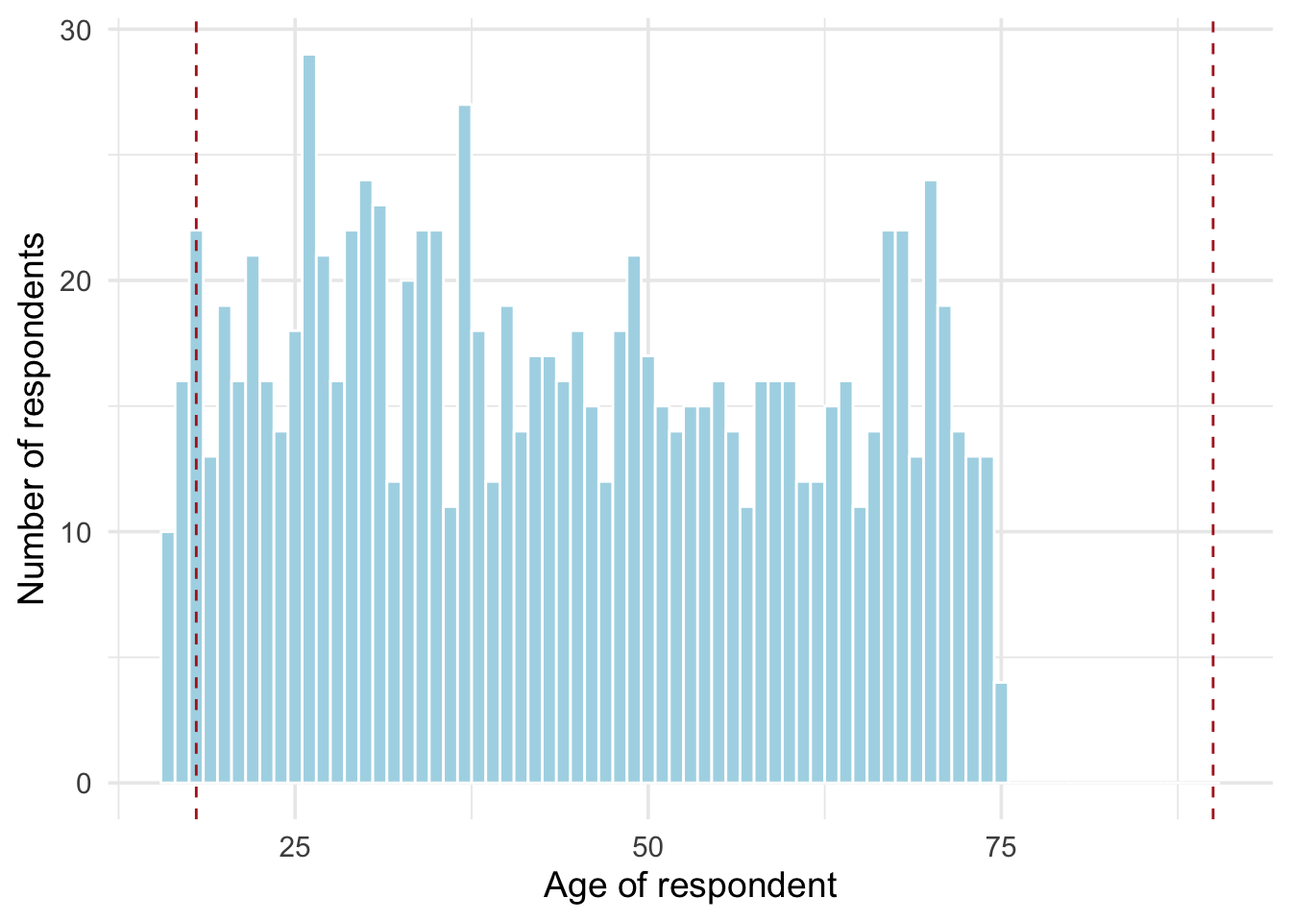
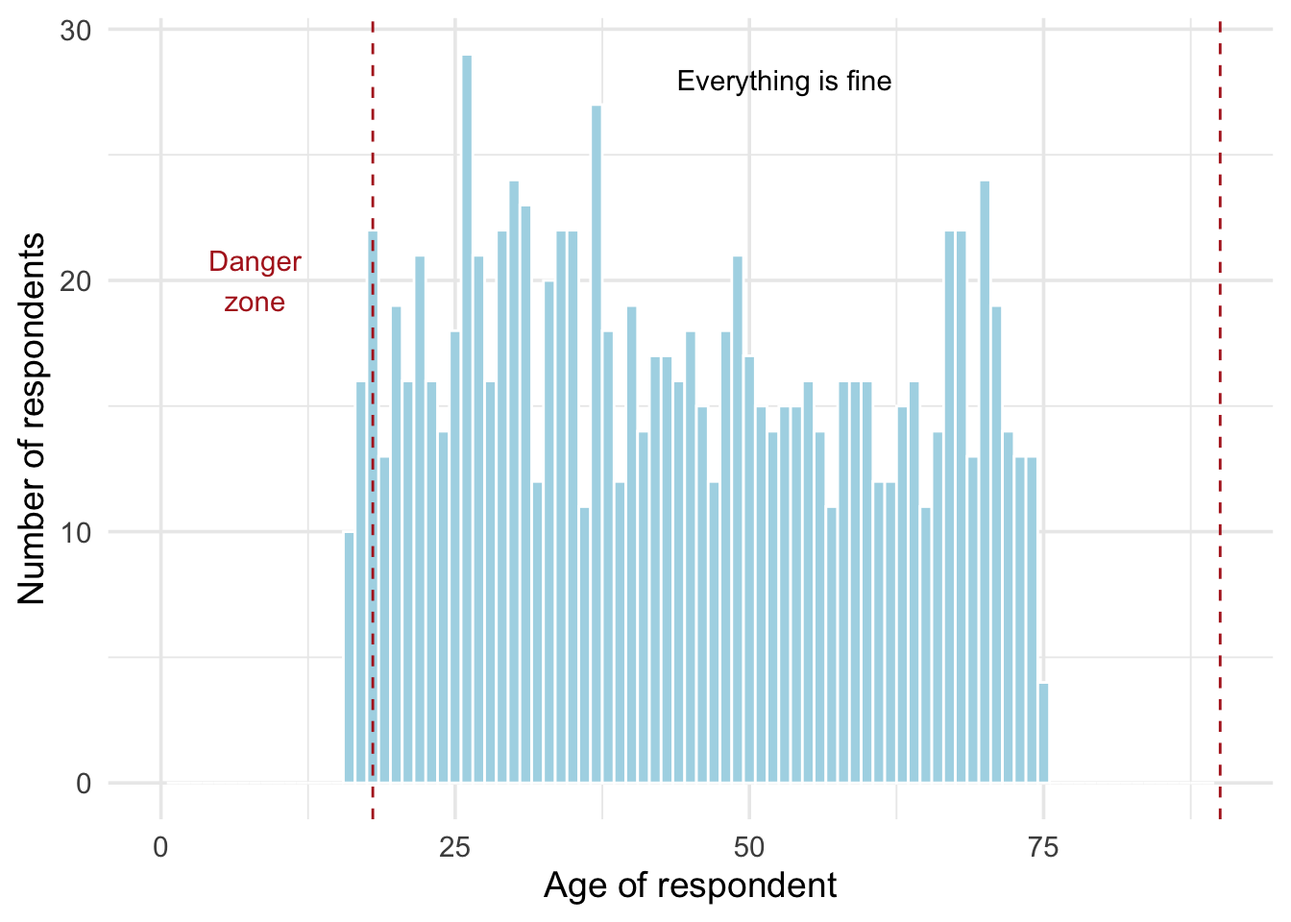
Issues with commiting. This better work.

diff --git a/_site/blog/writing-tests/index.html b/_site/blog/writing-tests/index.html
@@ -7,10 +7,10 @@
 <meta name="viewport" content="width=device-width, initial-scale=1.0, user-scalable=yes">
 
 <meta name="author" content="Paw Hansen">
-<meta name="dcterms.date" content="2021-05-22">
-<meta name="description" content="Writing tests to varify your data is what you think it is">
+<meta name="dcterms.date" content="2023-08-23">
+<meta name="description" content="No one likes to be surprised when it comes to data quality. Writing tests will help you varify your data is what you think it is">
 
-<title>Paw Hansen - We should probably test that: writing tests to varify your data is what you think it is</title>
+<title>Paw Hansen - You should probably test that: writing tests to ensure data quality</title>
 <style>
 code{white-space: pre-wrap;}
 span.smallcaps{font-variant: small-caps;}
@@ -139,10 +139,10 @@ pre > code.sourceCode > span > a:first-child::before { text-decoration: underlin
 <header id="title-block-header" class="quarto-title-block default page-columns page-full">
   <div class="quarto-title-banner page-columns page-full">
     <div class="quarto-title column-body">
-      <h1 class="title">We should probably test that: writing tests to varify your data is what you think it is</h1>
+      <h1 class="title">You should probably test that: writing tests to ensure data quality</h1>
                   <div>
         <div class="description">
-          Writing tests to varify your data is what you think it is
+          No one likes to be surprised when it comes to data quality. Writing tests will help you varify your data is what you think it is
         </div>
       </div>
                           <div class="quarto-categories">
@@ -164,7 +164,7 @@ pre > code.sourceCode > span > a:first-child::before { text-decoration: underlin
       <div>
       <div class="quarto-title-meta-heading">Published</div>
       <div class="quarto-title-meta-contents">
-        <p class="date">May 22, 2021</p>
+        <p class="date">August 23, 2023</p>
       </div>
     </div>
     
@@ -252,21 +252,39 @@ pre > code.sourceCode > span > a:first-child::before { text-decoration: underlin
 <span id="cb3-4"><a href="#cb3-4" aria-hidden="true" tabindex="-1"></a>                 <span class="at">color =</span> <span class="st">"white"</span>, </span>
 <span id="cb3-5"><a href="#cb3-5" aria-hidden="true" tabindex="-1"></a>                 <span class="at">fill =</span> <span class="st">"lightblue"</span>) <span class="sc">+</span></span>
 <span id="cb3-6"><a href="#cb3-6" aria-hidden="true" tabindex="-1"></a>  <span class="fu">geom_vline</span>(<span class="at">xintercept =</span> <span class="dv">18</span>, <span class="at">color =</span> <span class="st">"firebrick"</span>, <span class="at">lty =</span> <span class="st">"dashed"</span>) <span class="sc">+</span> </span>
-<span id="cb3-7"><a href="#cb3-7" aria-hidden="true" tabindex="-1"></a>  <span class="fu">geom_vline</span>(<span class="at">xintercept =</span> <span class="dv">90</span>, <span class="at">color =</span> <span class="st">"firebrick"</span>, <span class="at">lty =</span> <span class="st">"dashed"</span>) <span class="sc">+</span> </span>
-<span id="cb3-8"><a href="#cb3-8" aria-hidden="true" tabindex="-1"></a>   <span class="fu">labs</span>(</span>
-<span id="cb3-9"><a href="#cb3-9" aria-hidden="true" tabindex="-1"></a>    <span class="at">x =</span> <span class="st">"Age of respondent"</span>,</span>
-<span id="cb3-10"><a href="#cb3-10" aria-hidden="true" tabindex="-1"></a>    <span class="at">y =</span> <span class="st">"Number of respondents"</span>)</span></code><button title="Copy to Clipboard" class="code-copy-button"><i class="bi"></i></button></pre></div>
+<span id="cb3-7"><a href="#cb3-7" aria-hidden="true" tabindex="-1"></a>  <span class="fu">annotate</span>(<span class="at">geom =</span> <span class="st">"text"</span>, </span>
+<span id="cb3-8"><a href="#cb3-8" aria-hidden="true" tabindex="-1"></a>           <span class="at">label =</span> <span class="fu">str_wrap</span>(<span class="st">"Danger zone"</span>, <span class="dv">6</span>), </span>
+<span id="cb3-9"><a href="#cb3-9" aria-hidden="true" tabindex="-1"></a>           <span class="at">x =</span> <span class="dv">8</span>, </span>
+<span id="cb3-10"><a href="#cb3-10" aria-hidden="true" tabindex="-1"></a>           <span class="at">y =</span> <span class="dv">20</span>, </span>
+<span id="cb3-11"><a href="#cb3-11" aria-hidden="true" tabindex="-1"></a>           <span class="at">color =</span> <span class="st">"firebrick"</span>) <span class="sc">+</span> </span>
+<span id="cb3-12"><a href="#cb3-12" aria-hidden="true" tabindex="-1"></a>  <span class="fu">annotate</span>(<span class="at">geom =</span> <span class="st">"text"</span>, </span>
+<span id="cb3-13"><a href="#cb3-13" aria-hidden="true" tabindex="-1"></a>           <span class="at">label =</span> <span class="st">"Everything is fine"</span>, </span>
+<span id="cb3-14"><a href="#cb3-14" aria-hidden="true" tabindex="-1"></a>           <span class="at">x =</span> <span class="dv">53</span>, </span>
+<span id="cb3-15"><a href="#cb3-15" aria-hidden="true" tabindex="-1"></a>           <span class="at">y =</span> <span class="dv">28</span>) <span class="sc">+</span> </span>
+<span id="cb3-16"><a href="#cb3-16" aria-hidden="true" tabindex="-1"></a>  <span class="fu">geom_vline</span>(<span class="at">xintercept =</span> <span class="dv">90</span>, <span class="at">color =</span> <span class="st">"firebrick"</span>, <span class="at">lty =</span> <span class="st">"dashed"</span>) <span class="sc">+</span> </span>
+<span id="cb3-17"><a href="#cb3-17" aria-hidden="true" tabindex="-1"></a>  <span class="fu">xlim</span>(<span class="dv">0</span>, <span class="dv">90</span>) <span class="sc">+</span> </span>
+<span id="cb3-18"><a href="#cb3-18" aria-hidden="true" tabindex="-1"></a>   <span class="fu">labs</span>(</span>
+<span id="cb3-19"><a href="#cb3-19" aria-hidden="true" tabindex="-1"></a>    <span class="at">x =</span> <span class="st">"Age of respondent"</span>,</span>
+<span id="cb3-20"><a href="#cb3-20" aria-hidden="true" tabindex="-1"></a>    <span class="at">y =</span> <span class="st">"Number of respondents"</span>)</span></code><button title="Copy to Clipboard" class="code-copy-button"><i class="bi"></i></button></pre></div>
 </details>
+<div class="cell-output cell-output-stderr">
+<pre><code>Warning: Removed 2 rows containing missing values (`geom_bar()`).</code></pre>
+</div>
 <div class="cell-output-display">
-<p><img src="index_files/figure-html/unnamed-chunk-2-1.png" class="img-fluid" width="672"></p>
+<div class="quarto-figure quarto-figure-center">
+<figure class="figure">
+<p><img src="index_files/figure-html/unnamed-chunk-2-1.png" class="img-fluid figure-img" width="672"></p>
+<figcaption class="figure-caption">A quick histogram is great for identifying if observations fall outside meaningful bondaries.</figcaption>
+</figure>
+</div>
 </div>
 </div>
 <p>The histogram reveals that we have people in our sample who a under 18 and perhaps should be excluded. Another way of doing the same test but using code could be:</p>
 <div class="cell">
 <details>
 <summary>Code</summary>
-<div class="sourceCode cell-code" id="cb4"><pre class="sourceCode r code-with-copy"><code class="sourceCode r"><span id="cb4-1"><a href="#cb4-1" aria-hidden="true" tabindex="-1"></a><span class="fu">str_c</span>(<span class="fu">mean</span>(sim_dat<span class="sc">$</span>age <span class="sc">&gt;=</span> <span class="dv">18</span> <span class="sc">&amp;</span> sim_dat<span class="sc">$</span>age<span class="sc">&lt;</span> <span class="dv">90</span>) <span class="sc">*</span> <span class="dv">100</span>, </span>
-<span id="cb4-2"><a href="#cb4-2" aria-hidden="true" tabindex="-1"></a>      <span class="st">" percent of observations passes the test"</span>)</span></code><button title="Copy to Clipboard" class="code-copy-button"><i class="bi"></i></button></pre></div>
+<div class="sourceCode cell-code" id="cb5"><pre class="sourceCode r code-with-copy"><code class="sourceCode r"><span id="cb5-1"><a href="#cb5-1" aria-hidden="true" tabindex="-1"></a><span class="fu">str_c</span>(<span class="fu">mean</span>(sim_dat<span class="sc">$</span>age <span class="sc">&gt;=</span> <span class="dv">18</span> <span class="sc">&amp;</span> sim_dat<span class="sc">$</span>age<span class="sc">&lt;</span> <span class="dv">90</span>) <span class="sc">*</span> <span class="dv">100</span>, </span>
+<span id="cb5-2"><a href="#cb5-2" aria-hidden="true" tabindex="-1"></a>      <span class="st">" percent of observations passes the test"</span>)</span></code><button title="Copy to Clipboard" class="code-copy-button"><i class="bi"></i></button></pre></div>
 </details>
 <div class="cell-output cell-output-stdout">
 <pre><code>[1] "97.4 percent of observations passes the test"</code></pre>
@@ -276,8 +294,8 @@ pre > code.sourceCode > span > a:first-child::before { text-decoration: underlin
 <div class="cell">
 <details>
 <summary>Code</summary>
-<div class="sourceCode cell-code" id="cb6"><pre class="sourceCode r code-with-copy"><code class="sourceCode r"><span id="cb6-1"><a href="#cb6-1" aria-hidden="true" tabindex="-1"></a>sim_dat <span class="sc">|&gt;</span> </span>
-<span id="cb6-2"><a href="#cb6-2" aria-hidden="true" tabindex="-1"></a>  <span class="fu">count</span>(sex)</span></code><button title="Copy to Clipboard" class="code-copy-button"><i class="bi"></i></button></pre></div>
+<div class="sourceCode cell-code" id="cb7"><pre class="sourceCode r code-with-copy"><code class="sourceCode r"><span id="cb7-1"><a href="#cb7-1" aria-hidden="true" tabindex="-1"></a>sim_dat <span class="sc">|&gt;</span> </span>
+<span id="cb7-2"><a href="#cb7-2" aria-hidden="true" tabindex="-1"></a>  <span class="fu">count</span>(sex)</span></code><button title="Copy to Clipboard" class="code-copy-button"><i class="bi"></i></button></pre></div>
 </details>
 <div class="cell-output cell-output-stdout">
 <pre><code># A tibble: 3 × 2
@@ -289,8 +307,8 @@ pre > code.sourceCode > span > a:first-child::before { text-decoration: underlin
 </div>
 <details>
 <summary>Code</summary>
-<div class="sourceCode cell-code" id="cb8"><pre class="sourceCode r code-with-copy"><code class="sourceCode r"><span id="cb8-1"><a href="#cb8-1" aria-hidden="true" tabindex="-1"></a>sim_dat <span class="sc">|&gt;</span> </span>
-<span id="cb8-2"><a href="#cb8-2" aria-hidden="true" tabindex="-1"></a>  <span class="fu">count</span>(preference)</span></code><button title="Copy to Clipboard" class="code-copy-button"><i class="bi"></i></button></pre></div>
+<div class="sourceCode cell-code" id="cb9"><pre class="sourceCode r code-with-copy"><code class="sourceCode r"><span id="cb9-1"><a href="#cb9-1" aria-hidden="true" tabindex="-1"></a>sim_dat <span class="sc">|&gt;</span> </span>
+<span id="cb9-2"><a href="#cb9-2" aria-hidden="true" tabindex="-1"></a>  <span class="fu">count</span>(preference)</span></code><button title="Copy to Clipboard" class="code-copy-button"><i class="bi"></i></button></pre></div>
 </details>
 <div class="cell-output cell-output-stdout">
 <pre><code># A tibble: 3 × 2
@@ -305,7 +323,7 @@ pre > code.sourceCode > span > a:first-child::before { text-decoration: underlin
 <div class="cell">
 <details>
 <summary>Code</summary>
-<div class="sourceCode cell-code" id="cb10"><pre class="sourceCode r code-with-copy"><code class="sourceCode r"><span id="cb10-1"><a href="#cb10-1" aria-hidden="true" tabindex="-1"></a><span class="fu">str_c</span>(<span class="fu">mean</span>(<span class="fu">is.na</span>(sim_dat<span class="sc">$</span>sex)) <span class="sc">*</span> <span class="dv">100</span>, <span class="st">" percent of respondents have missing values on the sex variable"</span>)</span></code><button title="Copy to Clipboard" class="code-copy-button"><i class="bi"></i></button></pre></div>
+<div class="sourceCode cell-code" id="cb11"><pre class="sourceCode r code-with-copy"><code class="sourceCode r"><span id="cb11-1"><a href="#cb11-1" aria-hidden="true" tabindex="-1"></a><span class="fu">str_c</span>(<span class="fu">mean</span>(<span class="fu">is.na</span>(sim_dat<span class="sc">$</span>sex)) <span class="sc">*</span> <span class="dv">100</span>, <span class="st">" percent of respondents have missing values on the sex variable"</span>)</span></code><button title="Copy to Clipboard" class="code-copy-button"><i class="bi"></i></button></pre></div>
 </details>
 <div class="cell-output cell-output-stdout">
 <pre><code>[1] "20.5 percent of respondents have missing values on the sex variable"</code></pre>
@@ -315,7 +333,7 @@ pre > code.sourceCode > span > a:first-child::before { text-decoration: underlin
 <div class="cell">
 <details>
 <summary>Code</summary>
-<div class="sourceCode cell-code" id="cb12"><pre class="sourceCode r code-with-copy"><code class="sourceCode r"><span id="cb12-1"><a href="#cb12-1" aria-hidden="true" tabindex="-1"></a><span class="fu">mean</span>(<span class="fu">is.na</span>(sim_dat<span class="sc">$</span>sex)) <span class="sc">==</span> <span class="dv">0</span></span></code><button title="Copy to Clipboard" class="code-copy-button"><i class="bi"></i></button></pre></div>
+<div class="sourceCode cell-code" id="cb13"><pre class="sourceCode r code-with-copy"><code class="sourceCode r"><span id="cb13-1"><a href="#cb13-1" aria-hidden="true" tabindex="-1"></a><span class="fu">mean</span>(<span class="fu">is.na</span>(sim_dat<span class="sc">$</span>sex)) <span class="sc">==</span> <span class="dv">0</span></span></code><button title="Copy to Clipboard" class="code-copy-button"><i class="bi"></i></button></pre></div>
 </details>
 <div class="cell-output cell-output-stdout">
 <pre><code>[1] FALSE</code></pre>
@@ -326,8 +344,8 @@ pre > code.sourceCode > span > a:first-child::before { text-decoration: underlin
 <div class="cell">
 <details>
 <summary>Code</summary>
-<div class="sourceCode cell-code" id="cb14"><pre class="sourceCode r code-with-copy"><code class="sourceCode r"><span id="cb14-1"><a href="#cb14-1" aria-hidden="true" tabindex="-1"></a>sim_dat <span class="sc">|&gt;</span> </span>
-<span id="cb14-2"><a href="#cb14-2" aria-hidden="true" tabindex="-1"></a>  <span class="fu">glimpse</span>()</span></code><button title="Copy to Clipboard" class="code-copy-button"><i class="bi"></i></button></pre></div>
+<div class="sourceCode cell-code" id="cb15"><pre class="sourceCode r code-with-copy"><code class="sourceCode r"><span id="cb15-1"><a href="#cb15-1" aria-hidden="true" tabindex="-1"></a>sim_dat <span class="sc">|&gt;</span> </span>
+<span id="cb15-2"><a href="#cb15-2" aria-hidden="true" tabindex="-1"></a>  <span class="fu">glimpse</span>()</span></code><button title="Copy to Clipboard" class="code-copy-button"><i class="bi"></i></button></pre></div>
 </details>
 <div class="cell-output cell-output-stdout">
 <pre><code>Rows: 1,000
@@ -341,37 +359,37 @@ $ preference &lt;chr&gt; "ice cream", "ice cream", "pancakes", "ice cream", "pan
 <div class="cell">
 <details>
 <summary>Code</summary>
-<div class="sourceCode cell-code" id="cb16"><pre class="sourceCode r code-with-copy"><code class="sourceCode r"><span id="cb16-1"><a href="#cb16-1" aria-hidden="true" tabindex="-1"></a>sim_dat_cleaned <span class="ot">&lt;-</span> </span>
-<span id="cb16-2"><a href="#cb16-2" aria-hidden="true" tabindex="-1"></a>  sim_dat <span class="sc">|&gt;</span> </span>
-<span id="cb16-3"><a href="#cb16-3" aria-hidden="true" tabindex="-1"></a>  <span class="fu">filter</span>(age <span class="sc">&gt;=</span> <span class="dv">18</span>) <span class="sc">|&gt;</span> <span class="co"># drop respondents under 18 </span></span>
-<span id="cb16-4"><a href="#cb16-4" aria-hidden="true" tabindex="-1"></a>  <span class="fu">drop_na</span>(sex) <span class="sc">|&gt;</span>  <span class="co"># drop respondents with NAs on the sex variable - requires some consideration</span></span>
-<span id="cb16-5"><a href="#cb16-5" aria-hidden="true" tabindex="-1"></a>  <span class="fu">filter</span>(preference <span class="sc">%in%</span> <span class="fu">c</span>(<span class="st">"ice cream"</span>, <span class="st">"pancakes"</span>)) <span class="sc">|&gt;</span> </span>
-<span id="cb16-6"><a href="#cb16-6" aria-hidden="true" tabindex="-1"></a>  <span class="fu">mutate</span>(<span class="at">sex =</span> <span class="fu">as.factor</span>(sex),</span>
-<span id="cb16-7"><a href="#cb16-7" aria-hidden="true" tabindex="-1"></a>         <span class="at">preference =</span> <span class="fu">as.factor</span>(preference))</span></code><button title="Copy to Clipboard" class="code-copy-button"><i class="bi"></i></button></pre></div>
+<div class="sourceCode cell-code" id="cb17"><pre class="sourceCode r code-with-copy"><code class="sourceCode r"><span id="cb17-1"><a href="#cb17-1" aria-hidden="true" tabindex="-1"></a>sim_dat_cleaned <span class="ot">&lt;-</span> </span>
+<span id="cb17-2"><a href="#cb17-2" aria-hidden="true" tabindex="-1"></a>  sim_dat <span class="sc">|&gt;</span> </span>
+<span id="cb17-3"><a href="#cb17-3" aria-hidden="true" tabindex="-1"></a>  <span class="fu">filter</span>(age <span class="sc">&gt;=</span> <span class="dv">18</span>) <span class="sc">|&gt;</span> <span class="co"># drop respondents under 18 </span></span>
+<span id="cb17-4"><a href="#cb17-4" aria-hidden="true" tabindex="-1"></a>  <span class="fu">drop_na</span>(sex) <span class="sc">|&gt;</span>  <span class="co"># drop respondents with NAs on the sex variable - requires some consideration</span></span>
+<span id="cb17-5"><a href="#cb17-5" aria-hidden="true" tabindex="-1"></a>  <span class="fu">filter</span>(preference <span class="sc">%in%</span> <span class="fu">c</span>(<span class="st">"ice cream"</span>, <span class="st">"pancakes"</span>)) <span class="sc">|&gt;</span> </span>
+<span id="cb17-6"><a href="#cb17-6" aria-hidden="true" tabindex="-1"></a>  <span class="fu">mutate</span>(<span class="at">sex =</span> <span class="fu">as.factor</span>(sex),</span>
+<span id="cb17-7"><a href="#cb17-7" aria-hidden="true" tabindex="-1"></a>         <span class="at">preference =</span> <span class="fu">as.factor</span>(preference))</span></code><button title="Copy to Clipboard" class="code-copy-button"><i class="bi"></i></button></pre></div>
 </details>
 </div>
 <p>And now we have cleaned dataset, which would pass our tests. Just one example:</p>
 <div class="cell">
 <details>
 <summary>Code</summary>
-<div class="sourceCode cell-code" id="cb17"><pre class="sourceCode r code-with-copy"><code class="sourceCode r"><span id="cb17-1"><a href="#cb17-1" aria-hidden="true" tabindex="-1"></a>sim_dat_cleaned <span class="sc">|&gt;</span> </span>
-<span id="cb17-2"><a href="#cb17-2" aria-hidden="true" tabindex="-1"></a>  <span class="fu">ggplot</span>(<span class="fu">aes</span>(age)) <span class="sc">+</span> </span>
-<span id="cb17-3"><a href="#cb17-3" aria-hidden="true" tabindex="-1"></a>  <span class="fu">geom_histogram</span>(<span class="at">binwidth =</span> <span class="dv">1</span>, </span>
-<span id="cb17-4"><a href="#cb17-4" aria-hidden="true" tabindex="-1"></a>                 <span class="at">color =</span> <span class="st">"white"</span>, </span>
-<span id="cb17-5"><a href="#cb17-5" aria-hidden="true" tabindex="-1"></a>                 <span class="at">fill =</span> <span class="st">"lightblue"</span>) <span class="sc">+</span></span>
-<span id="cb17-6"><a href="#cb17-6" aria-hidden="true" tabindex="-1"></a>  <span class="fu">geom_vline</span>(<span class="at">xintercept =</span> <span class="dv">18</span>, <span class="at">color =</span> <span class="st">"firebrick"</span>, <span class="at">lty =</span> <span class="st">"dashed"</span>) <span class="sc">+</span> </span>
-<span id="cb17-7"><a href="#cb17-7" aria-hidden="true" tabindex="-1"></a>  <span class="fu">geom_vline</span>(<span class="at">xintercept =</span> <span class="dv">90</span>, <span class="at">color =</span> <span class="st">"firebrick"</span>, <span class="at">lty =</span> <span class="st">"dashed"</span>) <span class="sc">+</span> </span>
-<span id="cb17-8"><a href="#cb17-8" aria-hidden="true" tabindex="-1"></a>   <span class="fu">labs</span>(</span>
-<span id="cb17-9"><a href="#cb17-9" aria-hidden="true" tabindex="-1"></a>    <span class="at">x =</span> <span class="st">"Age of respondent"</span>,</span>
-<span id="cb17-10"><a href="#cb17-10" aria-hidden="true" tabindex="-1"></a>    <span class="at">y =</span> <span class="st">"Number of respondents"</span>)</span></code><button title="Copy to Clipboard" class="code-copy-button"><i class="bi"></i></button></pre></div>
+<div class="sourceCode cell-code" id="cb18"><pre class="sourceCode r code-with-copy"><code class="sourceCode r"><span id="cb18-1"><a href="#cb18-1" aria-hidden="true" tabindex="-1"></a>sim_dat_cleaned <span class="sc">|&gt;</span> </span>
+<span id="cb18-2"><a href="#cb18-2" aria-hidden="true" tabindex="-1"></a>  <span class="fu">ggplot</span>(<span class="fu">aes</span>(age)) <span class="sc">+</span> </span>
+<span id="cb18-3"><a href="#cb18-3" aria-hidden="true" tabindex="-1"></a>  <span class="fu">geom_histogram</span>(<span class="at">binwidth =</span> <span class="dv">1</span>, </span>
+<span id="cb18-4"><a href="#cb18-4" aria-hidden="true" tabindex="-1"></a>                 <span class="at">color =</span> <span class="st">"white"</span>, </span>
+<span id="cb18-5"><a href="#cb18-5" aria-hidden="true" tabindex="-1"></a>                 <span class="at">fill =</span> <span class="st">"lightblue"</span>) <span class="sc">+</span></span>
+<span id="cb18-6"><a href="#cb18-6" aria-hidden="true" tabindex="-1"></a>  <span class="fu">geom_vline</span>(<span class="at">xintercept =</span> <span class="dv">18</span>, <span class="at">color =</span> <span class="st">"firebrick"</span>, <span class="at">lty =</span> <span class="st">"dashed"</span>) <span class="sc">+</span> </span>
+<span id="cb18-7"><a href="#cb18-7" aria-hidden="true" tabindex="-1"></a>  <span class="fu">geom_vline</span>(<span class="at">xintercept =</span> <span class="dv">90</span>, <span class="at">color =</span> <span class="st">"firebrick"</span>, <span class="at">lty =</span> <span class="st">"dashed"</span>) <span class="sc">+</span> </span>
+<span id="cb18-8"><a href="#cb18-8" aria-hidden="true" tabindex="-1"></a>   <span class="fu">labs</span>(</span>
+<span id="cb18-9"><a href="#cb18-9" aria-hidden="true" tabindex="-1"></a>    <span class="at">x =</span> <span class="st">"Age of respondent"</span>,</span>
+<span id="cb18-10"><a href="#cb18-10" aria-hidden="true" tabindex="-1"></a>    <span class="at">y =</span> <span class="st">"Number of respondents"</span>)</span></code><button title="Copy to Clipboard" class="code-copy-button"><i class="bi"></i></button></pre></div>
 </details>
 <div class="cell-output-display">
 <p><img src="index_files/figure-html/unnamed-chunk-9-1.png" class="img-fluid" width="672"></p>
 </div>
 </div>
 </section>
-<section id="final-thought-writing-tests" class="level3">
-<h3 class="anchored" data-anchor-id="final-thought-writing-tests">Final thought: writing tests</h3>
+<section id="final-thoughts-writing-tests" class="level3">
+<h3 class="anchored" data-anchor-id="final-thoughts-writing-tests">Final thoughts: writing tests</h3>
 <p>Writing test prior to data analysis can save you time spent debugging code and also increase confidence in your results because your model is built with the data you think it is. In this post, I have mentioned three basic ways of testing your data: graphing, counting, and writing formal tests. Now, go on and test your data!</p>
 </section>
 <section id="cool-where-can-i-learn-more" class="level3">

diff --git a/_site/blog.html b/_site/blog.html
@@ -167,7 +167,42 @@ ul.task-list li input[type="checkbox"] {
 
 <div class="quarto-listing quarto-listing-container-default" id="listing-listing">
 <div class="list quarto-listing-default">
-<div class="quarto-post image-right" data-index="0" data-categories="Bayesian modeling,presentation" data-listing-date-sort="1689199200000" data-listing-file-modified-sort="1691604058579" data-listing-date-modified-sort="NaN" data-listing-reading-time-sort="14">
+<div class="quarto-post image-right" data-index="0" data-categories="statistical analysis" data-listing-date-sort="1692741600000" data-listing-file-modified-sort="1692771115748" data-listing-date-modified-sort="NaN" data-listing-reading-time-sort="8">
+<div class="thumbnail">
+<p><a href="./blog/writing-tests/index.html"> <img src="./blog/writing-tests/featured.jpg" class="thumbnail-image"> </a></p>
+</div>
+<div class="body">
+<a href="./blog/writing-tests/index.html">
+<h3 class="no-anchor listing-title">
+You should probably test that: writing tests to ensure data quality
+</h3>
+<div class="listing-subtitle">
+
+</div>
+</a>
+<div class="listing-categories">
+<div class="listing-category" onclick="window.quartoListingCategory('statistical analysis'); return false;">
+statistical analysis
+</div>
+</div>
+<a href="./blog/writing-tests/index.html">
+<div class="listing-description">
+<p>No one likes to be surprised when it comes to data quality. Writing tests will help you varify your data is what you think it is</p>
+</div>
+</a>
+</div>
+<div class="metadata">
+<a href="./blog/writing-tests/index.html">
+<div class="listing-date">
+Aug 23, 2023
+</div>
+<div class="listing-author">
+Paw Hansen
+</div>
+</a>
+</div>
+</div>
+<div class="quarto-post image-right" data-index="1" data-categories="Bayesian modeling,presentation" data-listing-date-sort="1689199200000" data-listing-file-modified-sort="1691604058579" data-listing-date-modified-sort="NaN" data-listing-reading-time-sort="14">
 <div class="thumbnail">
 <p><a href="./blog/bayesian-rct-presentation/index.html"> <img src="./blog/bayesian-rct-presentation/featured.jpg" class="thumbnail-image"> </a></p>
 </div>
@@ -205,7 +240,7 @@ Paw Hansen
 </a>
 </div>
 </div>
-<div class="quarto-post image-right" data-index="1" data-categories="Bayesian modeling" data-listing-date-sort="1688508000000" data-listing-file-modified-sort="1692254832851" data-listing-date-modified-sort="NaN" data-listing-reading-time-sort="7">
+<div class="quarto-post image-right" data-index="2" data-categories="Bayesian modeling" data-listing-date-sort="1688508000000" data-listing-file-modified-sort="1692254832851" data-listing-date-modified-sort="NaN" data-listing-reading-time-sort="7">
 <div class="thumbnail">
 <p><a href="./blog/bayesian-rct-validation/index.html"> <img src="./blog/bayesian-rct-validation/featured.jpg" class="thumbnail-image"> </a></p>
 </div>
@@ -240,7 +275,7 @@ Paw Hansen
 </a>
 </div>
 </div>
-<div class="quarto-post image-right" data-index="2" data-categories="Bayesian modeling" data-listing-date-sort="1688248800000" data-listing-file-modified-sort="1691604870278" data-listing-date-modified-sort="NaN" data-listing-reading-time-sort="12">
+<div class="quarto-post image-right" data-index="3" data-categories="Bayesian modeling" data-listing-date-sort="1688248800000" data-listing-file-modified-sort="1691604870278" data-listing-date-modified-sort="NaN" data-listing-reading-time-sort="12">
 <div class="thumbnail">
 <p><a href="./blog/bayesian-rct-spec-priors/index.html"> <img src="./blog/bayesian-rct-spec-priors/featured.jpg" class="thumbnail-image"> </a></p>
 </div>
@@ -275,7 +310,7 @@ Paw Hansen
 </a>
 </div>
 </div>
-<div class="quarto-post image-right" data-index="3" data-categories="statistical analysis" data-listing-date-sort="1686261600000" data-listing-file-modified-sort="1691583825437" data-listing-date-modified-sort="NaN" data-listing-reading-time-sort="6">
+<div class="quarto-post image-right" data-index="4" data-categories="statistical analysis" data-listing-date-sort="1686261600000" data-listing-file-modified-sort="1691583825437" data-listing-date-modified-sort="NaN" data-listing-reading-time-sort="6">
 <div class="thumbnail">
 <p><a href="./blog/dot-dot-dot/index.html"> <img src="./blog/dot-dot-dot/featured.jpg" class="thumbnail-image"> </a></p>
 </div>
@@ -310,7 +345,7 @@ Paw Hansen
 </a>
 </div>
 </div>
-<div class="quarto-post image-right" data-index="4" data-categories="statistical analysis,policy evaluation" data-listing-date-sort="1685570400000" data-listing-file-modified-sort="1691583395204" data-listing-date-modified-sort="NaN" data-listing-reading-time-sort="10">
+<div class="quarto-post image-right" data-index="5" data-categories="statistical analysis,policy evaluation" data-listing-date-sort="1685570400000" data-listing-file-modified-sort="1691583395204" data-listing-date-modified-sort="NaN" data-listing-reading-time-sort="10">
 <div class="thumbnail">
 <p><a href="./blog/toolbox-rdd/index.html"> <img src="./blog/toolbox-rdd/featured.jpg" class="thumbnail-image"> </a></p>
 </div>
@@ -348,7 +383,7 @@ Paw Hansen
 </a>
 </div>
 </div>
-<div class="quarto-post image-right" data-index="5" data-categories="statistical analysis,policy evaluation" data-listing-date-sort="1684879200000" data-listing-file-modified-sort="1691582566420" data-listing-date-modified-sort="NaN" data-listing-reading-time-sort="7">
+<div class="quarto-post image-right" data-index="6" data-categories="statistical analysis,policy evaluation" data-listing-date-sort="1684879200000" data-listing-file-modified-sort="1691582566420" data-listing-date-modified-sort="NaN" data-listing-reading-time-sort="7">
 <div class="thumbnail">
 <p><a href="./blog/toolbox-rct/index.html"> <img src="./blog/toolbox-rct/featured.jpg" class="thumbnail-image"> </a></p>
 </div>
@@ -386,7 +421,7 @@ Paw Hansen
 </a>
 </div>
 </div>
-<div class="quarto-post image-right" data-index="6" data-categories="statistical analysis,presentation" data-listing-date-sort="1684274400000" data-listing-file-modified-sort="1690961774455" data-listing-date-modified-sort="NaN" data-listing-reading-time-sort="7">
+<div class="quarto-post image-right" data-index="7" data-categories="statistical analysis,presentation" data-listing-date-sort="1684274400000" data-listing-file-modified-sort="1690961774455" data-listing-date-modified-sort="NaN" data-listing-reading-time-sort="7">
 <div class="thumbnail">
 <p><a href="./blog/human-scale-principle/index.html"> <img src="./blog/human-scale-principle/featured.jpg" class="thumbnail-image"> </a></p>
 </div>
@@ -417,41 +452,6 @@ presentation
 <a href="./blog/human-scale-principle/index.html">
 <div class="listing-date">
 May 17, 2023
-</div>
-<div class="listing-author">
-Paw Hansen
-</div>
-</a>
-</div>
-</div>
-<div class="quarto-post image-right" data-index="7" data-categories="statistical analysis" data-listing-date-sort="1621634400000" data-listing-file-modified-sort="1692687541566" data-listing-date-modified-sort="NaN" data-listing-reading-time-sort="7">
-<div class="thumbnail">
-<p><a href="./blog/writing-tests/index.html"> <img src="./blog/writing-tests/featured.jpg" class="thumbnail-image"> </a></p>
-</div>
-<div class="body">
-<a href="./blog/writing-tests/index.html">
-<h3 class="no-anchor listing-title">
-We should probably test that: writing tests to varify your data is what you think it is
-</h3>
-<div class="listing-subtitle">
-
-</div>
-</a>
-<div class="listing-categories">
-<div class="listing-category" onclick="window.quartoListingCategory('statistical analysis'); return false;">
-statistical analysis
-</div>
-</div>
-<a href="./blog/writing-tests/index.html">
-<div class="listing-description">
-<p>Writing tests to varify your data is what you think it is</p>
-</div>
-</a>
-</div>
-<div class="metadata">
-<a href="./blog/writing-tests/index.html">
-<div class="listing-date">
-May 22, 2021
 </div>
 <div class="listing-author">
 Paw Hansen
